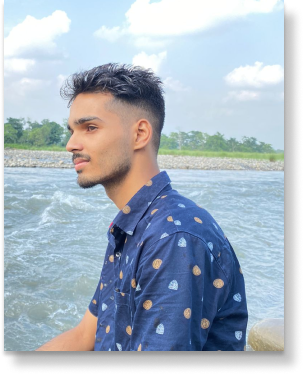
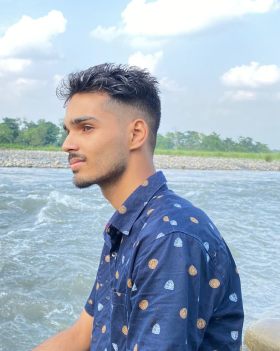
animation improved

diff --git a/components/About.js b/components/About.js
@@ -6,17 +6,26 @@ function About() {
         <div className={style.heading} style={{
             position: 'relative',
             left: "-10rem"
-        }} initial={{ x: -100, opacity: 0 }} animate={{ x: 0, opacity: 1 }} transition={{ duration: 0.5 }}>ABOUT ME : {")"}</div>
+        }} >ABOUT ME : {")"}</div>
         <div className={style.mainContainer}>
-            <motion.div initial={{ opacity: 0, x: -100 }} animate={{ opacity: 1, x: 0 }} transition={{ duration: 0.5 }}>
-                <div className={style.main} >
+            <div   >
+                <motion.div className={style.main} initial={{ opacity: 0, x: -100 }}
+                    animate={{ opacity: 1, x: 0 }}
+                    transition={{ delay: 0.3, duration: 0.8 }}
+                    viewport={{ once: true }}  >
                     <p>Hey there, <br />I am <span className={style.red}>{"<Ankit/>"}</span><br />A Web Developer</p>
-                </div>
-                <div className={style.para}>
+                </motion.div>
+                <motion.div className={style.para} initial={{ opacity: 0, x: -100 }}
+                    animate={{ opacity: 1, x: 0 }}
+                    transition={{ delay: 0.6, duration: 0.8 }}
+                    viewport={{ once: true }} >
                     <p>I can help you make a beautiful and functional website
                         this and that and also a work place and turn them beautifiul and glowing art and of course a nice art to showcase to your users </p>
-                </div>
-                <motion.div className={style.buttonGroup} inital={{ opacity: 0 }} whileInView={{ opacity: 1 }}>
+                </motion.div>
+                <motion.div className={style.buttonGroup} initial={{ opacity: 0, x: -100 }}
+                    animate={{ opacity: 1, x: 0 }}
+                    transition={{ delay: 0.9, duration: 0.8 }}
+                    viewport={{ once: true }} >
                     <div className={style.button}>
                         <p>CV</p>
                     </div>
@@ -24,8 +33,8 @@ function About() {
                         <p>Contact Me</p>
                     </div>
                 </motion.div>
-            </motion.div>
-            <motion.div className={style.img} initial={{ opacity: 0 }} animate={{ opacity: 1 }} transition={{ duration: 0.5 }}>
+            </div>
+            <motion.div className={style.img} initial={{ opacity: 0 }} animate={{ opacity: 1 }} transition={{ delay: 0.2, duration: 0.8 }}>
                 <div className={style.imgContainer}>
                     <img src="./my-img.jpg" alt="" />
                 </div>

diff --git a/styles/About.module.css b/styles/About.module.css
@@ -1,5 +1,7 @@
 .container {
     width: 100%;
+    margin: auto;
+    max-width: 2000px;
     padding: 0 10rem;
     padding-bottom: 5rem;
 }
@@ -71,28 +73,37 @@
 }
 
 .icon {
-    margin-top: 1rem;
+    margin-top: 2rem;
     width: 93%;
     display: flex;
     justify-content: space-between;
     align-items: center;
+    cursor: pointer;
 }
 
+
+
 .imgContainer {
+    border-radius: 2rem;
     position: relative;
     width: fit-content;
     height: fit-content;
     z-index: 1;
 }
 
+.imgContainer>img {
+    border-top-left-radius: 2rem;
+    box-shadow: 10px 14px 10px rgba(0, 0, 0, 0.2);
+}
+
 .imgContainer::before {
     position: absolute;
     content: '';
     color: white;
-    width: 95%;
-    height: 95%;
+    width: 100%;
+    height: 100%;
     top: 10px;
-    left: 10px;
+    left: 12px;
     background-color: #21A0A0;
     z-index: -1;
 }

diff --git a/components/GridProject.js b/components/GridProject.js
@@ -1,7 +1,10 @@
 import styles from '../styles/Projects.module.css'
 import { motion } from 'framer-motion'
 function GridProject({ title }) {
-    return (<motion.div initial={{ x: -100, opacity: 0 }} whileInView={{ x: 0, opacity: 1 }} transition={{ delay: 0.1, duration: 0.3 }} viewport={{ once: 'true' }}>
+    return (<motion.div initial={{ opacity: 0, x: -100 }}
+        whileInView={{ opacity: 1, x: 0 }}
+        transition={{ delay: 0.3, duration: 0.8 }}
+        viewport={{ once: true }}>
         <h2 className={styles.heading}>{title}</h2>
 
         <div className={styles.projectContainer}>

diff --git a/components/Project.js b/components/Project.js
@@ -1,6 +1,6 @@
 import styles from '../styles/Projects.module.css'
 import GridProject from './GridProject'
-
+import { motion } from 'framer-motion'
 
 
 
@@ -12,10 +12,7 @@ function Project() {
                 position: 'relative',
                 left: "-10rem"
             }}
-                initial={{ opacity: 0, x: -100 }}
-                whileinview={{ opacity: 1, x: 0 }}
-                transition={{ delay: 0.2 }}
-                viewport={{ once: false }}
+
                 className={styles.lheading}
             >PROJECTS
             </div>

diff --git a/styles/Skillset.module.css b/styles/Skillset.module.css
@@ -1,6 +1,8 @@
 .container {
     /* outline: 2px solid red; */
     width: 100vw;
+    margin: auto;
+    max-width: 2000px;
     min-height: 100vh;
     background-color: var(--color-secondary);
     font-family: var(--text-heading);
@@ -35,6 +37,7 @@
     font-family: var(--text-button);
     color: white;
     background-color: var(--color-primary);
+    border-radius: 1rem;
     font-size: var(--para);
     font-weight: var(--weight-heading);
     display: flex;

diff --git a/pages/index.js b/pages/index.js
@@ -5,7 +5,7 @@ import Skillset from "../components/Skillset";
 
 export default function Home() {
   return (
-    <div  >
+    <div>
       <About />
       <Skillset />
       <Project />

diff --git a/styles/Projects.module.css b/styles/Projects.module.css
@@ -1,4 +1,7 @@
 .container {
+    margin: auto;
+    width: 100%;
+    max-width: 2000px;
     padding: 0 10rem;
     padding-bottom: 10rem;
 }
